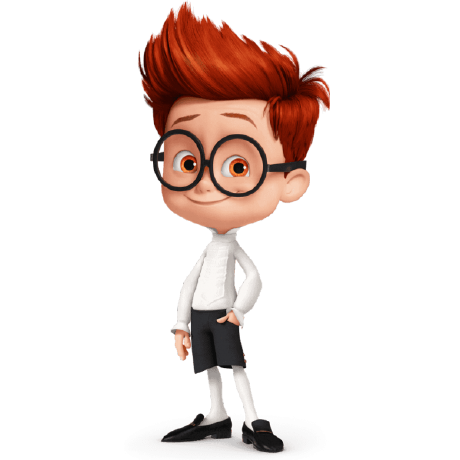
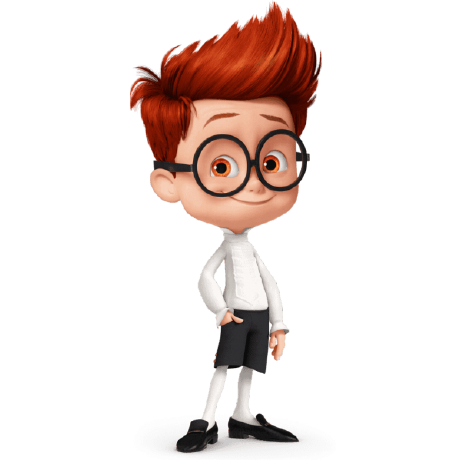
Update 2023-01-31

Changed region(s): [[0.2739, 0.0, 0.7304, 1.0]]

diff --git a/index.html b/index.html
@@ -64,7 +64,7 @@
     <div class="container-fluid">
       <div class="row align-items-center justify-content-center text-center">
         <div class="col-lg-10 align-self-end">
-          <h1 class="text-uppercase text-white font-weight-bold">DEVELOPPEUR FULL-STACK</h1>
+            <img id="D" src="./img/avatar1.png" alt="Developpeur" class="dev-image"/>
           <hr class="divider my-4">
         </div>
         <div class="col-md-1"></div>

diff --git a/css/creative.css b/css/creative.css
@@ -10755,3 +10755,7 @@ header.masthead h1 {
 #portfolio .container-fluid .portfolio-box:hover .portfolio-box-caption {
   opacity: 1;
 }
+
+.dev-image {
+  width: calc(45%);
+}
